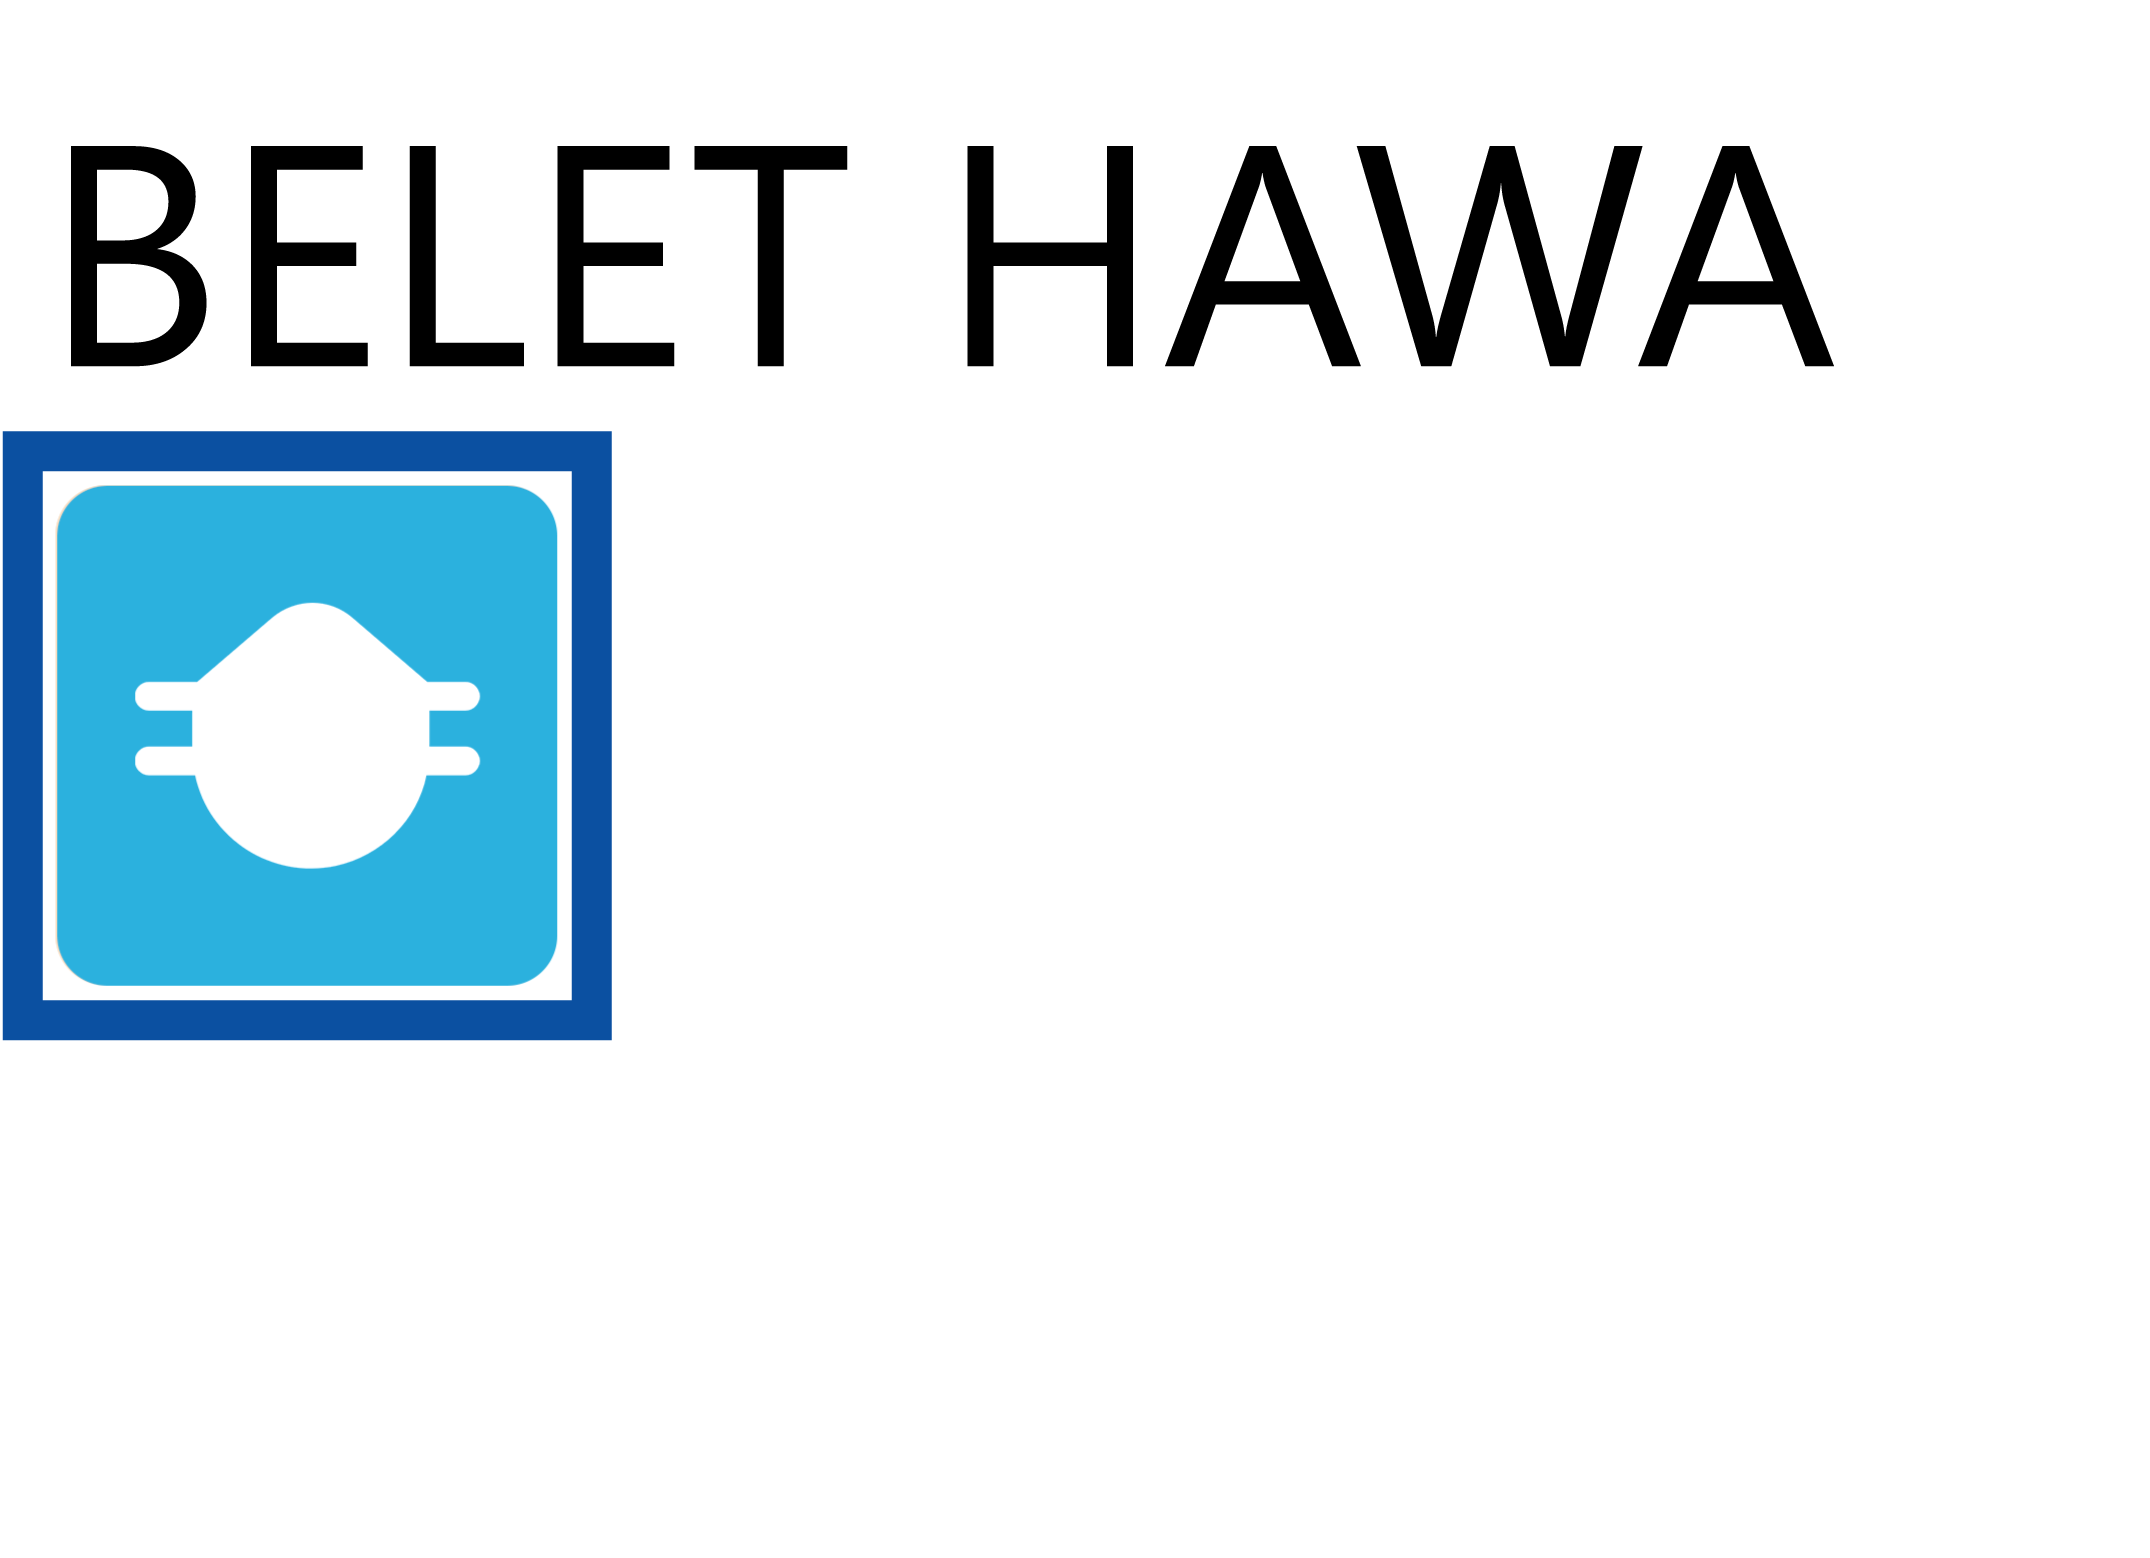
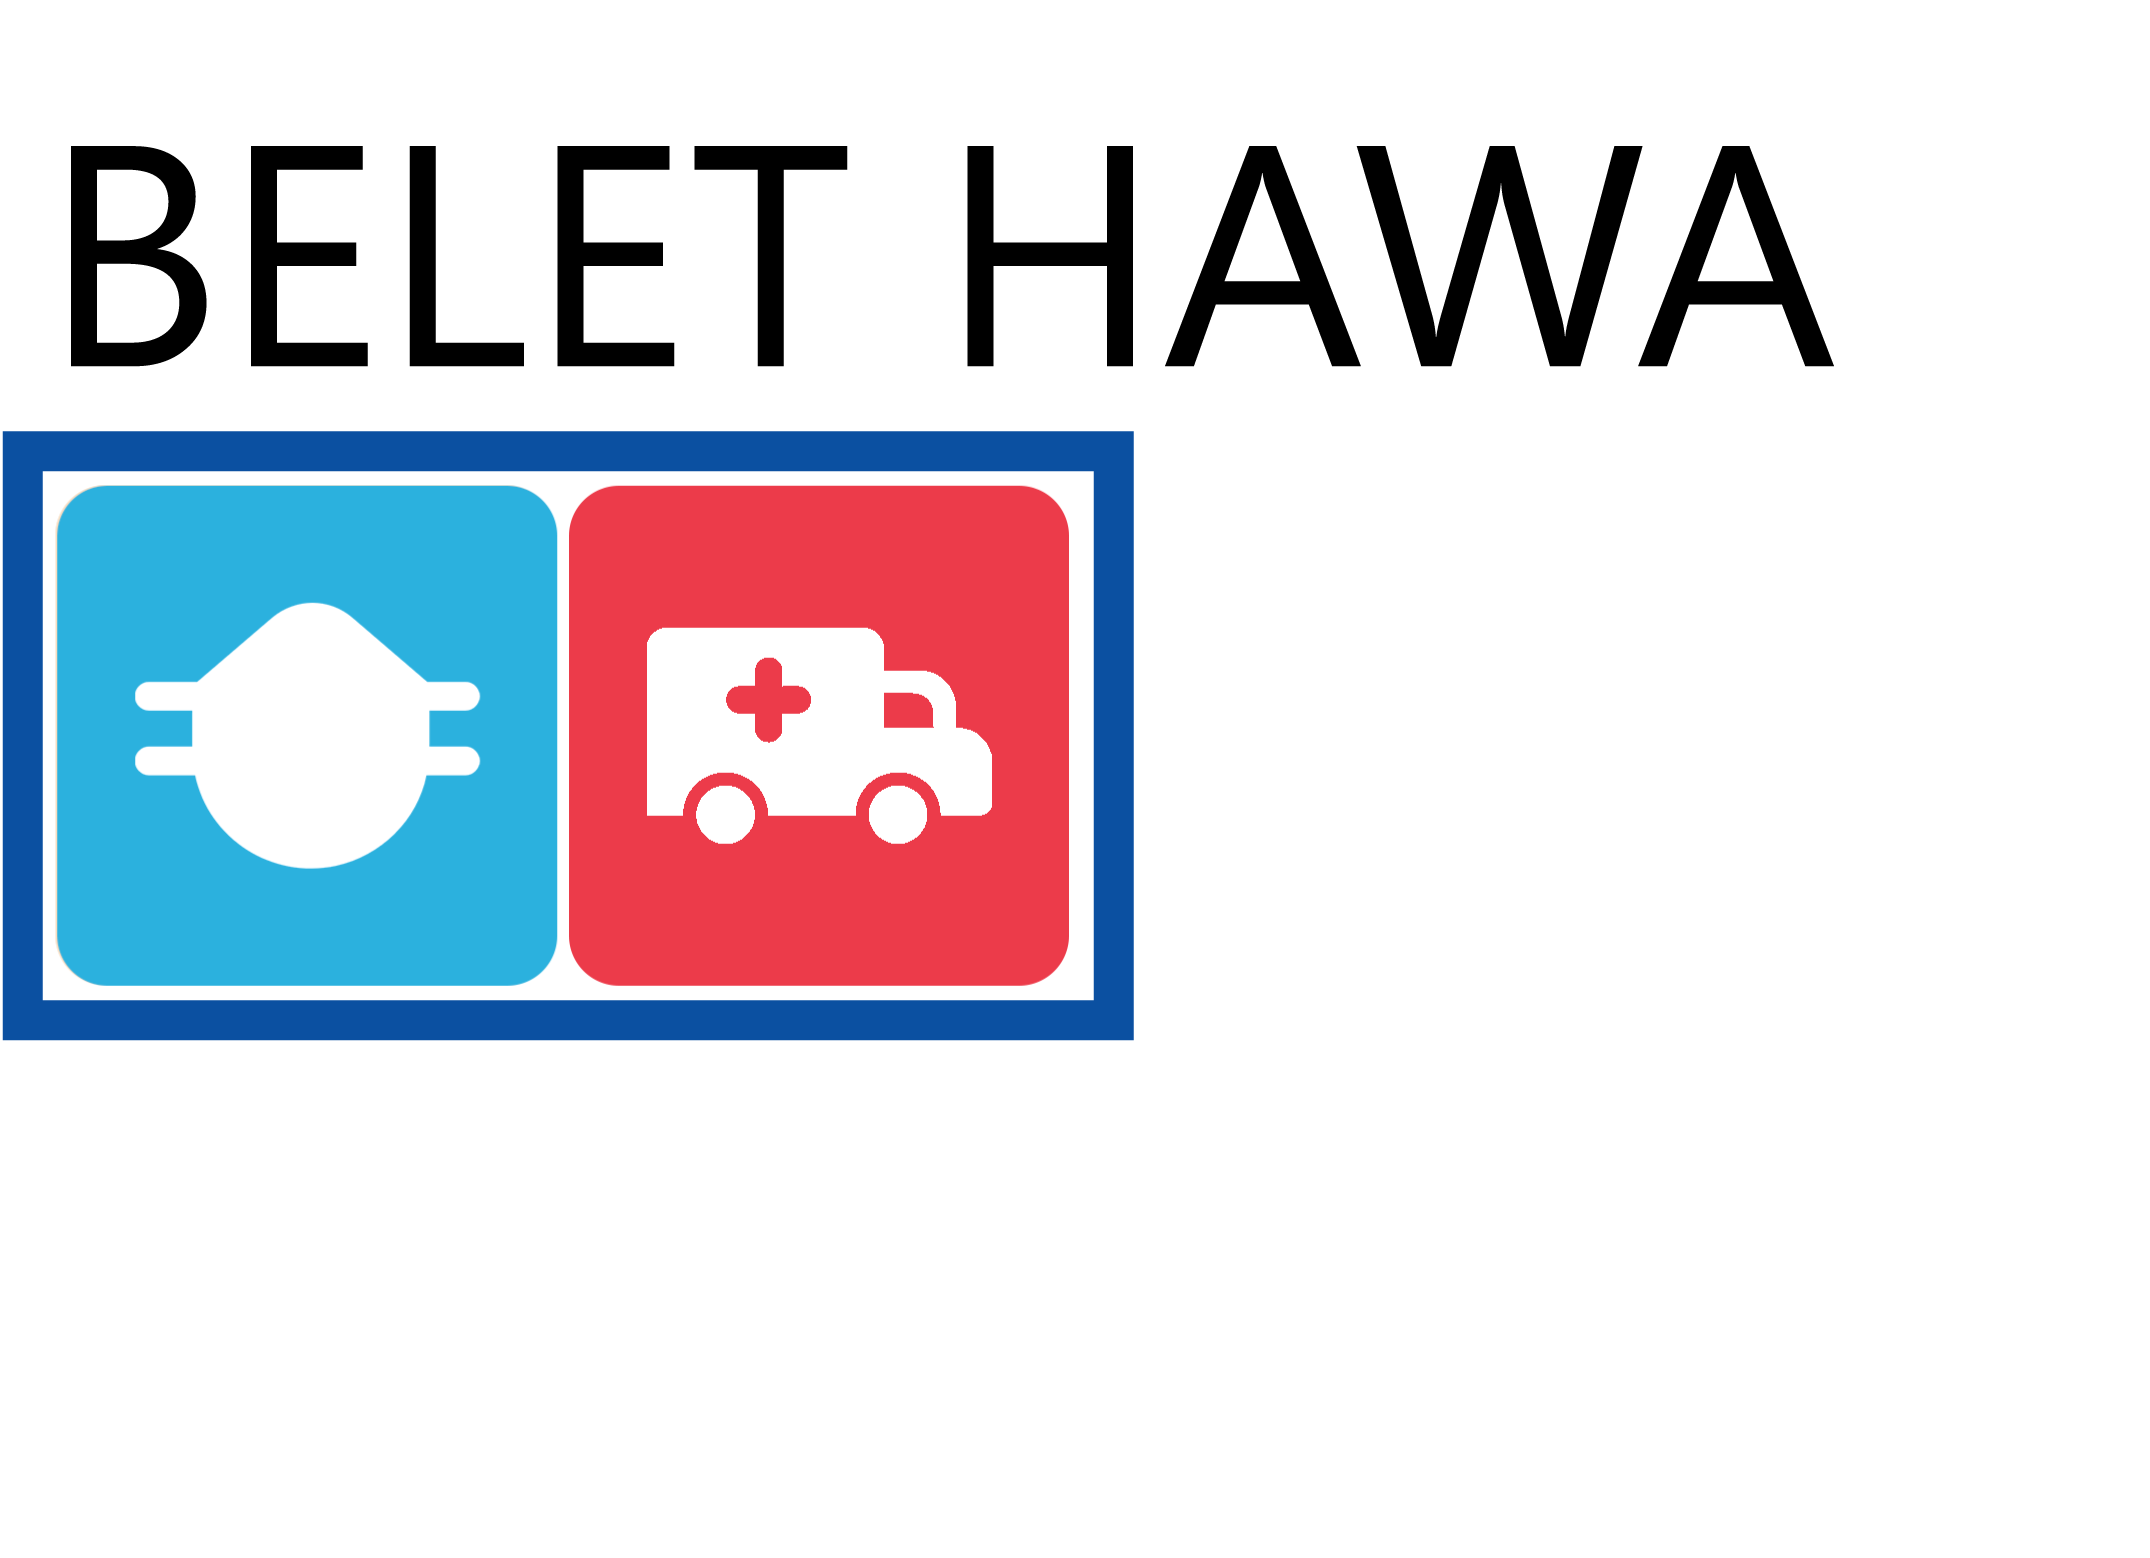
Update (9/24/21)

Changed region(s): [[0.2493, 0.2773, 0.5298, 0.6778]]

diff --git a/maindata.js b/maindata.js
@@ -97,7 +97,7 @@ var projectSites = [
         "type": "Feature",
         "geometry": {
           "type": "Point",
-          "coordinates": [36.413976, 15.455983]
+          "coordinates": [36.59442901611329, 15.428491726463506]
         },
         "properties": {
             "name": "Hamdayet, SU",
@@ -544,6 +544,7 @@ var projectSites = [
             "country": "somalia",
             "activity": {
                 "ppe" : ["UNOPS"],
+                "ambulances" : ["UNOPS"],
             },
             "partner" : ["UNOPS"],
             "pin_icon": circleIcon,
@@ -954,5 +955,115 @@ var projectSites = [
             "countryflag": "<img height =12px src=lib/cETbig.png> ",
       }
     },
+
+
+    // Adding New Sites (9/24/21)
+
+
+    
+    {
+        "type": "Feature",
+        "geometry": {
+          "type": "Point",
+          "coordinates": [35.761603, 13.525100]
+        },
+        "properties": {
+              "name": "Um Rakuba/Doka, SU",
+              "info": "",
+              "country": "sudan",
+              "activity": {
+                  "ppe" : ["IOM", "TMEA"],
+                  "wash" : ["IOM"],
+                  "trade" : ["TMEA"],  
+                  "facilities" : ["UNOPS"],
+
+              },
+              "partner" : ["UNOPS", "IOM", "TMEA"],
+              "pin_icon": RCIcon,
+              "boxcontent": "lib/zumrakuba.png",
+              "countryflag": "<img height =12px src=lib/cSUbig.png> ",
+        }
+      },
+      {
+        "type": "Feature",
+        "geometry": {
+          "type": "Point",
+          "coordinates": [36.403997, 15.457629]
+        },
+        "properties": {
+              "name": "Kassala, SU",
+              "info": "",
+              "country": "sudan",
+              "activity": {
+                  "ppe" : ["UNOPS"],
+                  "ambulances" : ["UNOPS"],
+
+              },
+              "partner" : ["UNOPS"],
+              "pin_icon": circleIcon,
+              "boxcontent": "lib/zkassala.png",
+              "countryflag": "<img height =12px src=lib/cSUbig.png> ",
+        }
+      },
+      {
+        "type": "Feature",
+        "geometry": {
+          "type": "Point",
+          "coordinates": [32.537811, 15.531667]
+        },
+        "properties": {
+              "name": "Khartoum, SU",
+              "info": "",
+              "country": "sudan",
+              "activity": {
+                  "ppe" : ["UNOPS"],
+
+              },
+              "partner" : ["UNOPS"],
+              "pin_icon": StarIcon,
+              "boxcontent": "lib/zkhartoum.png",
+              "countryflag": "<img height =12px src=lib/cSUbig.png> ",
+        }
+      },
+      {
+        "type": "Feature",
+        "geometry": {
+          "type": "Point",
+          "coordinates": [31.282770, 6.837953]
+        },
+        "properties": {
+              "name": "Jonglei, SSU",
+              "info": "",
+              "country": "southsudan",
+              "activity": {
+                "wash" : ["UNICEF"],
+
+              },
+              "partner" : ["UNICEF"],
+              "pin_icon": circleIcon,
+              "boxcontent": "lib/zjonglei.png",
+              "countryflag": "<img height =12px src=lib/cSUbig.png> ",
+        }
+      },
+      {
+        "type": "Feature",
+        "geometry": {
+          "type": "Point",
+          "coordinates": [32.718136, 9.889414]
+        },
+        "properties": {
+              "name": "Panyikang, SSU",
+              "info": "",
+              "country": "southsudan",
+              "activity": {
+                "wash" : ["UNICEF"],
+
+              },
+              "partner" : ["UNICEF"],
+              "pin_icon": circleIcon,
+              "boxcontent": "lib/zpanyikang.png",
+              "countryflag": "<img height =12px src=lib/cSUbig.png> ",
+        }
+      },
 
 ]
